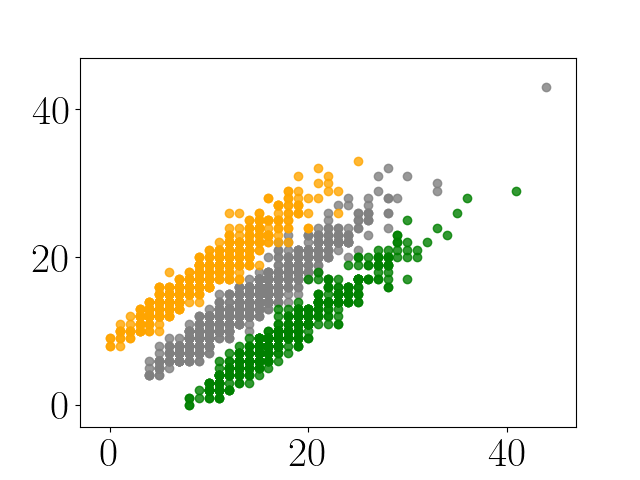
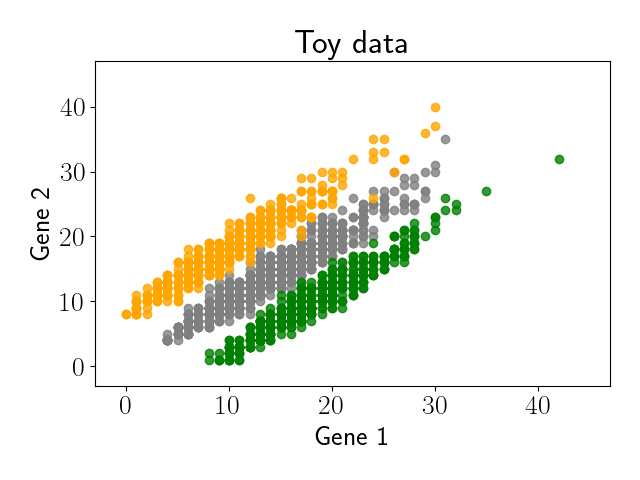
fill out readme example

diff --git a/experiments/simulation_experiments/toy_example/toy_example.py b/experiments/simulation_experiments/toy_example/toy_example.py
@@ -12,7 +12,7 @@ from sklearn.metrics import adjusted_rand_score, silhouette_score
 import pandas as pd
 
 import matplotlib
-font = {'size': 30}
+font = {'size': 20}
 matplotlib.rc('font', **font)
 matplotlib.rcParams['text.usetex'] = True
 
@@ -62,12 +62,131 @@ plt.ylim([-3, 47])
 plt.scatter(X[:, 0], X[:, 1], label="Background", color="gray", alpha=0.8)
 plt.scatter(Y[:m//2, 0], Y[:m//2, 1], label="Foreground group 1", color="green", alpha=0.8)
 plt.scatter(Y[m//2:, 0], Y[m//2:, 1], label="Foreground group 2", color="orange", alpha=0.8)
+plt.title("Toy data")
+plt.xlabel("Gene 1")
+plt.ylabel("Gene 2")
+plt.tight_layout()
 plt.savefig("./out/toy_data.png")
 plt.show()
 
 # Labels of the foreground clusters
 true_labels = np.zeros(m)
 true_labels[m//2:] = 1
+
+
+
+############ CPLVM ############
+
+# Fit model
+cplvm = CPLVM(k_shared=1, k_foreground=2)
+
+model_dict = cplvm.fit_model_vi(X.T, Y.T, compute_size_factors=True, is_H0=False, offset_term=False)
+
+W = np.exp(model_dict['qw_mean'].numpy() + model_dict['qw_stddv'].numpy()**2)
+S = np.exp(model_dict['qs_mean'].numpy() + model_dict['qs_stddv'].numpy()**2)
+# delta = np.exp(model_dict['qdeltax_mean'].numpy() + model_dict['qdeltax_stddv'].numpy()**2)
+
+# Plot data
+plt.figure(figsize=(7, 5))
+plt.xlim([-3, 50])
+plt.ylim([-3, 50])
+plt.scatter(X[:, 0], X[:, 1], color="gray", alpha=0.8)
+plt.scatter(Y[:m//2, 0], Y[:m//2, 1], color="green", alpha=0.8)
+plt.scatter(Y[m//2:, 0], Y[m//2:, 1], color="orange", alpha=0.8)
+
+X_mean = np.mean(X, axis=0)
+S_slope = S[1, 0] / S[0, 0]
+S_intercept = X_mean[1] - X_mean[0] * S_slope
+axes = plt.gca()
+xlims = np.array(axes.get_xlim())
+x_vals = np.linspace(xlims[0], xlims[1], 100)
+y_vals = S_slope * x_vals + S_intercept
+plt.plot(x_vals, y_vals, '--', label="S", color="black", linewidth=3)
+
+
+Y_mean = np.mean(Y, axis=0)
+
+W_slope = W[1, 0] / W[0, 0]
+W_intercept = Y_mean[1] - Y_mean[0] * W_slope
+axes = plt.gca()
+ylims = np.array(axes.get_ylim())
+y_vals = np.linspace(ylims[0], ylims[1], 100)
+y_vals = W_slope * x_vals + W_intercept
+plt.plot(x_vals, y_vals, '--', label="W1", color="red", linewidth=3)
+
+W_slope = W[1, 1] / W[0, 1]
+W_intercept = Y_mean[1] - Y_mean[0] * W_slope
+axes = plt.gca()
+ylims = np.array(axes.get_ylim())
+y_vals = np.linspace(ylims[0], ylims[1], 100)
+y_vals = W_slope * x_vals + W_intercept
+plt.plot(x_vals, y_vals, '--', label="W2", color="blue", linewidth=3)
+
+plt.title("CPLVM")
+plt.xlabel("Gene 1")
+plt.ylabel("Gene 2")
+plt.legend(prop={'size': 20})
+plt.tight_layout()
+plt.savefig("./out/cplvm_toy.png")
+plt.show()
+import ipdb; ipdb.set_trace()
+
+
+
+
+############ CGLVM ############
+
+
+# Fit model
+cglvm = CGLVM(k_shared=1, k_foreground=1)
+
+model_dict = cglvm.fit_model_vi(X.T, Y.T, compute_size_factors=True, is_H0=False)
+
+W = model_dict['qw_mean'].numpy()
+S = model_dict['qs_mean'].numpy()
+
+# Plot data
+plt.figure(figsize=(7, 5))
+plt.xlim([-3, 50])
+plt.ylim([-3, 50])
+plt.scatter(X[:, 0], X[:, 1], label="Background", color="gray", alpha=0.8)
+plt.scatter(Y[:m//2, 0], Y[:m//2, 1], label="Foreground group 1", color="green", alpha=0.8)
+plt.scatter(Y[m//2:, 0], Y[m//2:, 1], label="Foreground group 2", color="orange", alpha=0.8)
+
+X_mean = np.mean(X, axis=0)
+S_slope = S[1, 0] / S[0, 0]
+S_intercept = X_mean[1] - X_mean[0] * S_slope
+axes = plt.gca()
+xlims = np.array(axes.get_xlim())
+x_vals = np.linspace(xlims[0], xlims[1], 100)
+y_vals = S_slope * x_vals + S_intercept
+plt.plot(x_vals, y_vals, '--', label="S", color="black", linewidth=3)
+
+
+Y_mean = np.mean(Y, axis=0)
+
+W_slope = W[1, 0] / W[0, 0]
+W_intercept = Y_mean[1] - Y_mean[0] * W_slope
+axes = plt.gca()
+ylims = np.array(axes.get_ylim())
+y_vals = np.linspace(ylims[0], ylims[1], 100)
+y_vals = W_slope * x_vals + W_intercept
+plt.plot(x_vals, y_vals, '--', label="W1", color="red", linewidth=3)
+
+plt.title("CGLVM")
+plt.xlabel("Gene 1")
+plt.ylabel("Gene 2")
+plt.legend(prop={'size': 20})
+plt.tight_layout()
+plt.savefig("./out/cglvm_toy.png")
+plt.show()
+
+
+
+
+import ipdb; ipdb.set_trace()
+
+#######################################
 
 
 plt.figure(figsize=((len(METHODS)) / 2 * 7, 14))

diff --git a/README.md b/README.md
@@ -6,7 +6,7 @@ The accompanying paper can be found here: XXX.
 
 ## Installation
 
-Run the following commands in a terminal to install the package.
+To install the package, run the following commands in a terminal from the directory in which you want to install it.
 ```
 git clone git@github.com:andrewcharlesjones/cplvm.git
 cd cplvm
@@ -42,5 +42,82 @@ plt.show()
 
 ![toyexample](./experiments/simulation_experiments/toy_example/out/toy_data.png)
 
+Now, we fit the CPLVM.
+
+```python
+# Initialize the model
+cplvm = CPLVM(k_shared=1, k_foreground=2)
+
+# Fit model
+model_output = cplvm.fit_model_vi(X.T, Y.T, compute_size_factors=True, is_H0=False, offset_term=False)
+```
+
+Let's inspect the fitted loadings matrices. To do this, let's take the mean of the variational distribution for each component. The variational families are log-normal.
+
+```python
+# Shared loadings
+S = np.exp(model_dict['qs_mean'].numpy() + model_dict['qs_stddv'].numpy()**2)
+
+# Foreground-specific loadings
+W = np.exp(model_dict['qw_mean'].numpy() + model_dict['qw_stddv'].numpy()**2)
+```
+
+Now we can visualize each component as a 1D line.
+
+```python
+# Plot data
+plt.scatter(X[:, 0], X[:, 1], color="gray", alpha=0.8)
+plt.scatter(Y[:m//2, 0], Y[:m//2, 1], color="green", alpha=0.8)
+plt.scatter(Y[m//2:, 0], Y[m//2:, 1], color="orange", alpha=0.8)
+
+X_mean = np.mean(X, axis=0)
+Y_mean = np.mean(Y, axis=0)
+
+# Plot S
+S_slope = S[1, 0] / S[0, 0]
+S_intercept = X_mean[1] - X_mean[0] * S_slope
+axes = plt.gca()
+xlims = np.array(axes.get_xlim())
+x_vals = np.linspace(xlims[0], xlims[1], 100)
+y_vals = S_slope * x_vals + S_intercept
+plt.plot(x_vals, y_vals, '--', label="S", color="black", linewidth=3)
+
+# Plot first W component
+W_slope = W[1, 0] / W[0, 0]
+W_intercept = Y_mean[1] - Y_mean[0] * W_slope
+axes = plt.gca()
+ylims = np.array(axes.get_ylim())
+y_vals = np.linspace(ylims[0], ylims[1], 100)
+y_vals = W_slope * x_vals + W_intercept
+plt.plot(x_vals, y_vals, '--', label="W1", color="red", linewidth=3)
+
+# Plot second W component
+W_slope = W[1, 1] / W[0, 1]
+W_intercept = Y_mean[1] - Y_mean[0] * W_slope
+axes = plt.gca()
+ylims = np.array(axes.get_ylim())
+y_vals = np.linspace(ylims[0], ylims[1], 100)
+y_vals = W_slope * x_vals + W_intercept
+plt.plot(x_vals, y_vals, '--', label="W2", color="blue", linewidth=3)
+
+plt.title("CPLVM")
+plt.xlabel("Gene 1")
+plt.ylabel("Gene 2")
+plt.show()
+```
+
+![toyexample](./experiments/simulation_experiments/toy_example/out/cplvm_toy.png)
+
+For context, we can visualize the analogous loadings for a suite of other related methods.
 
 ![toyexample](./experiments/simulation_experiments/toy_example/out/toy_example.png)
+
+
+
+
+
+
+
+
+
+
